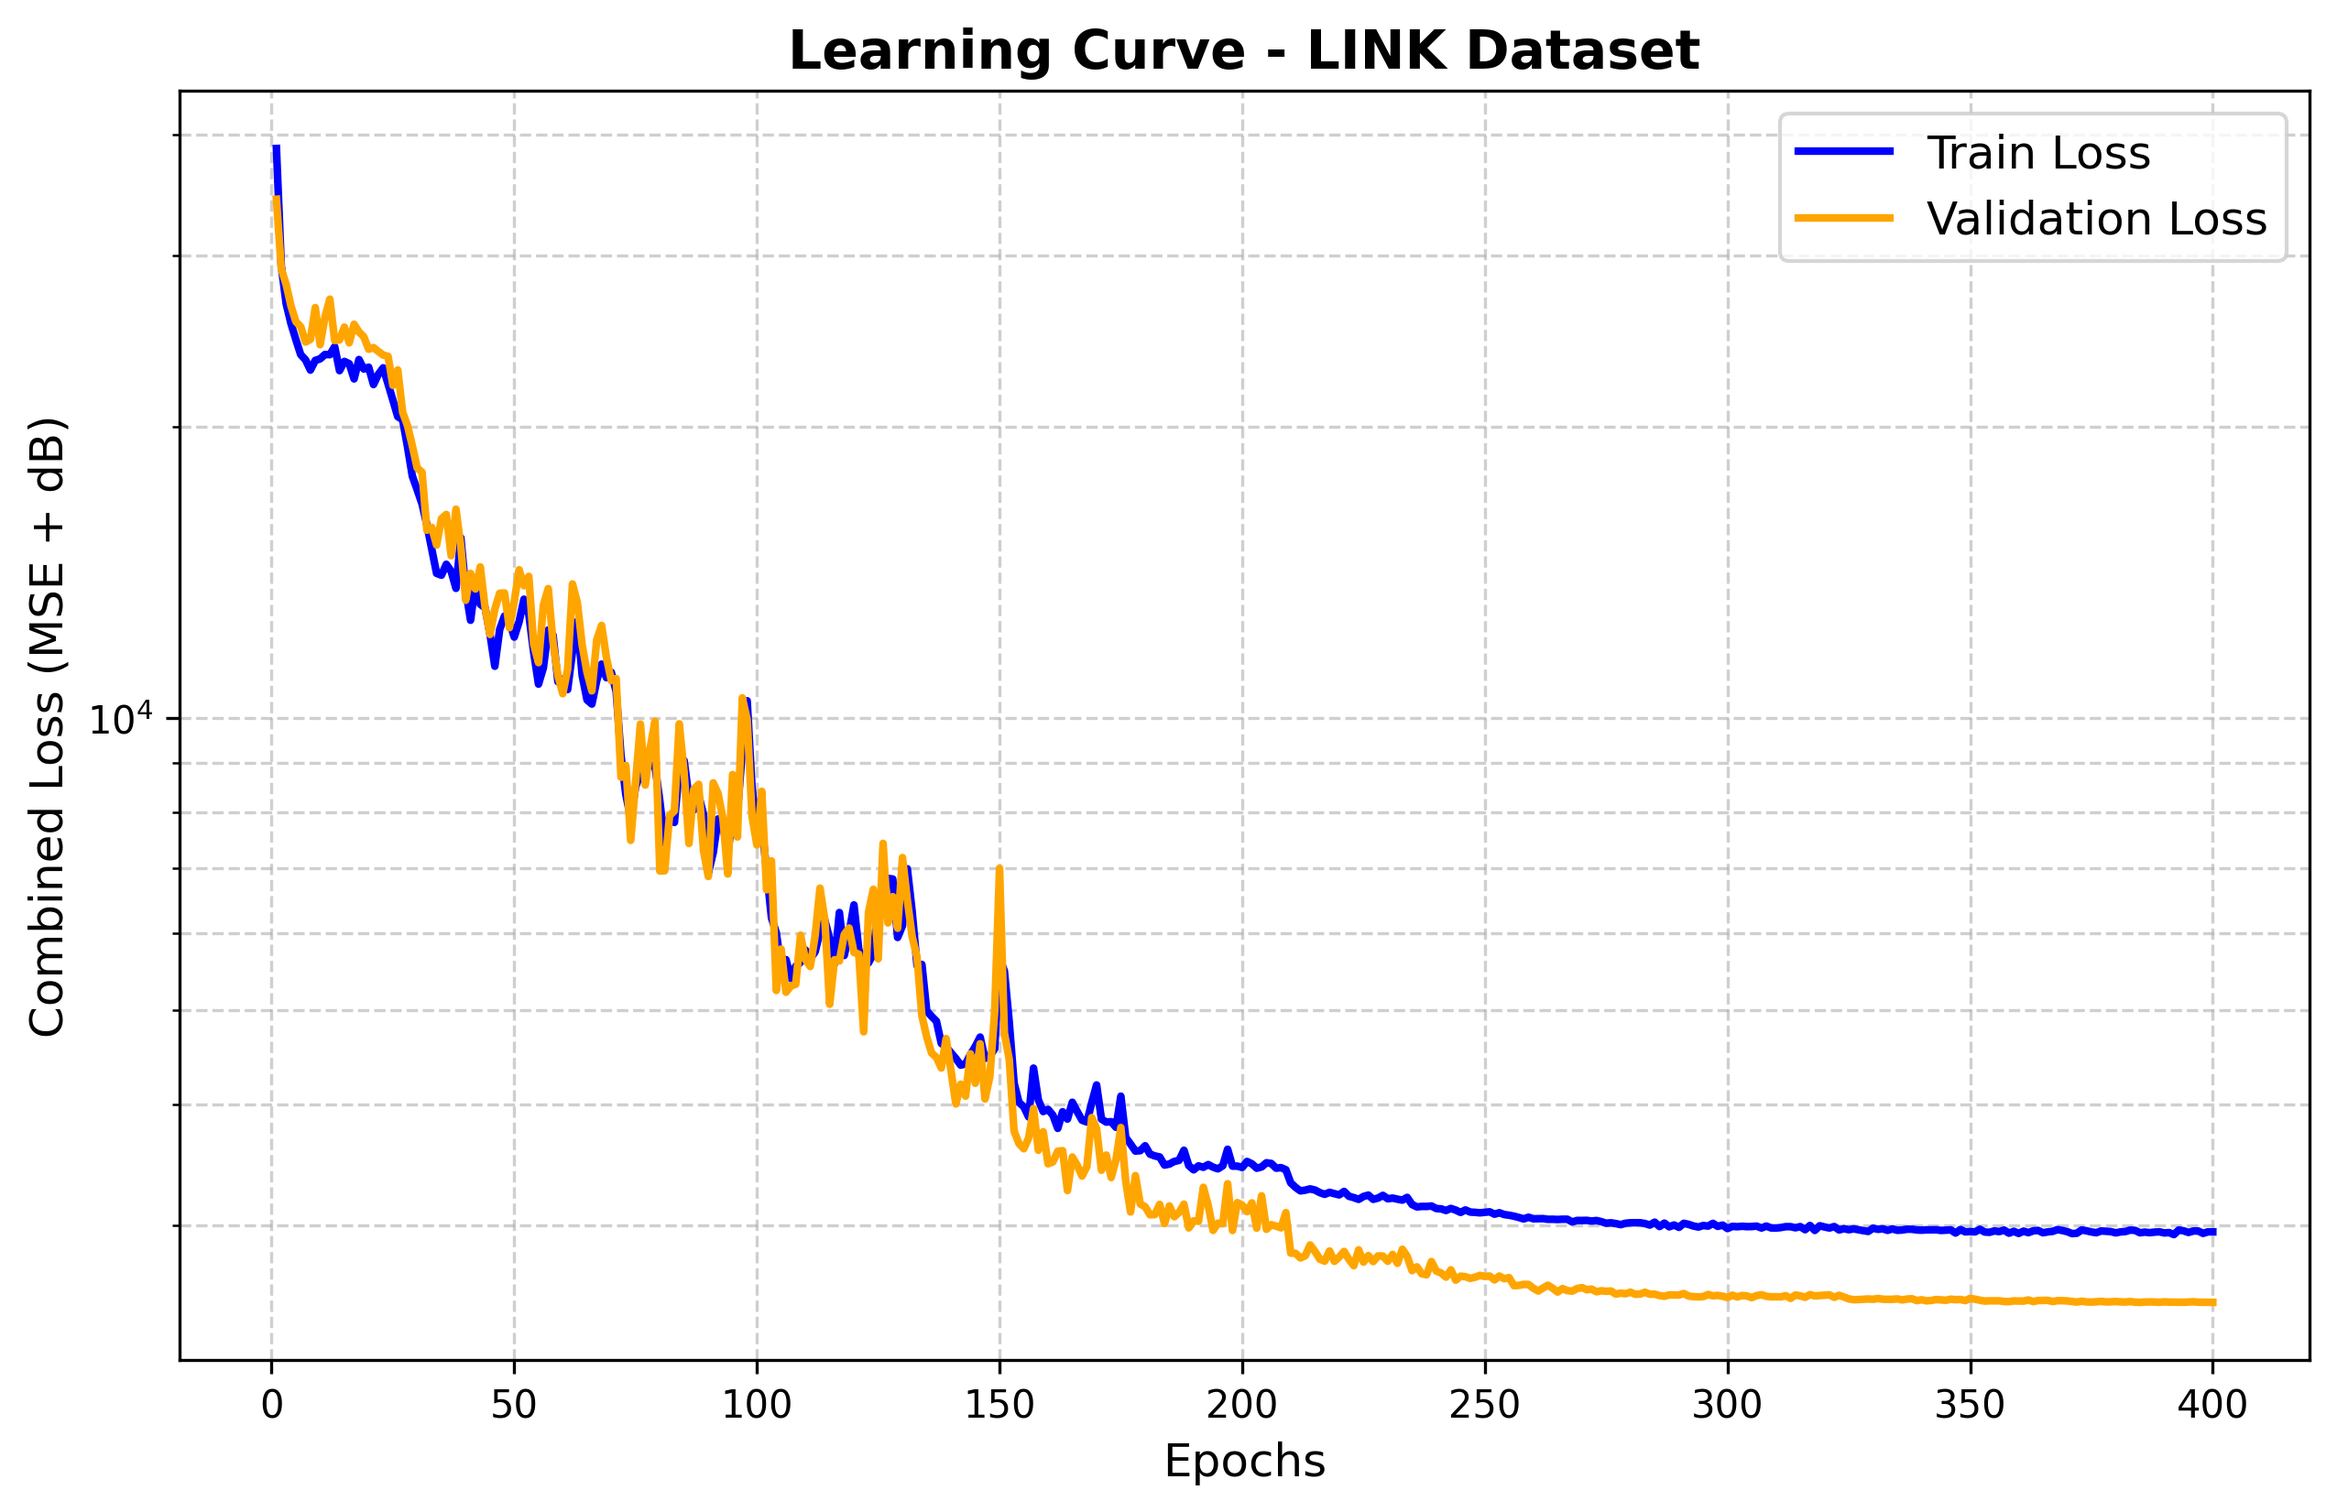
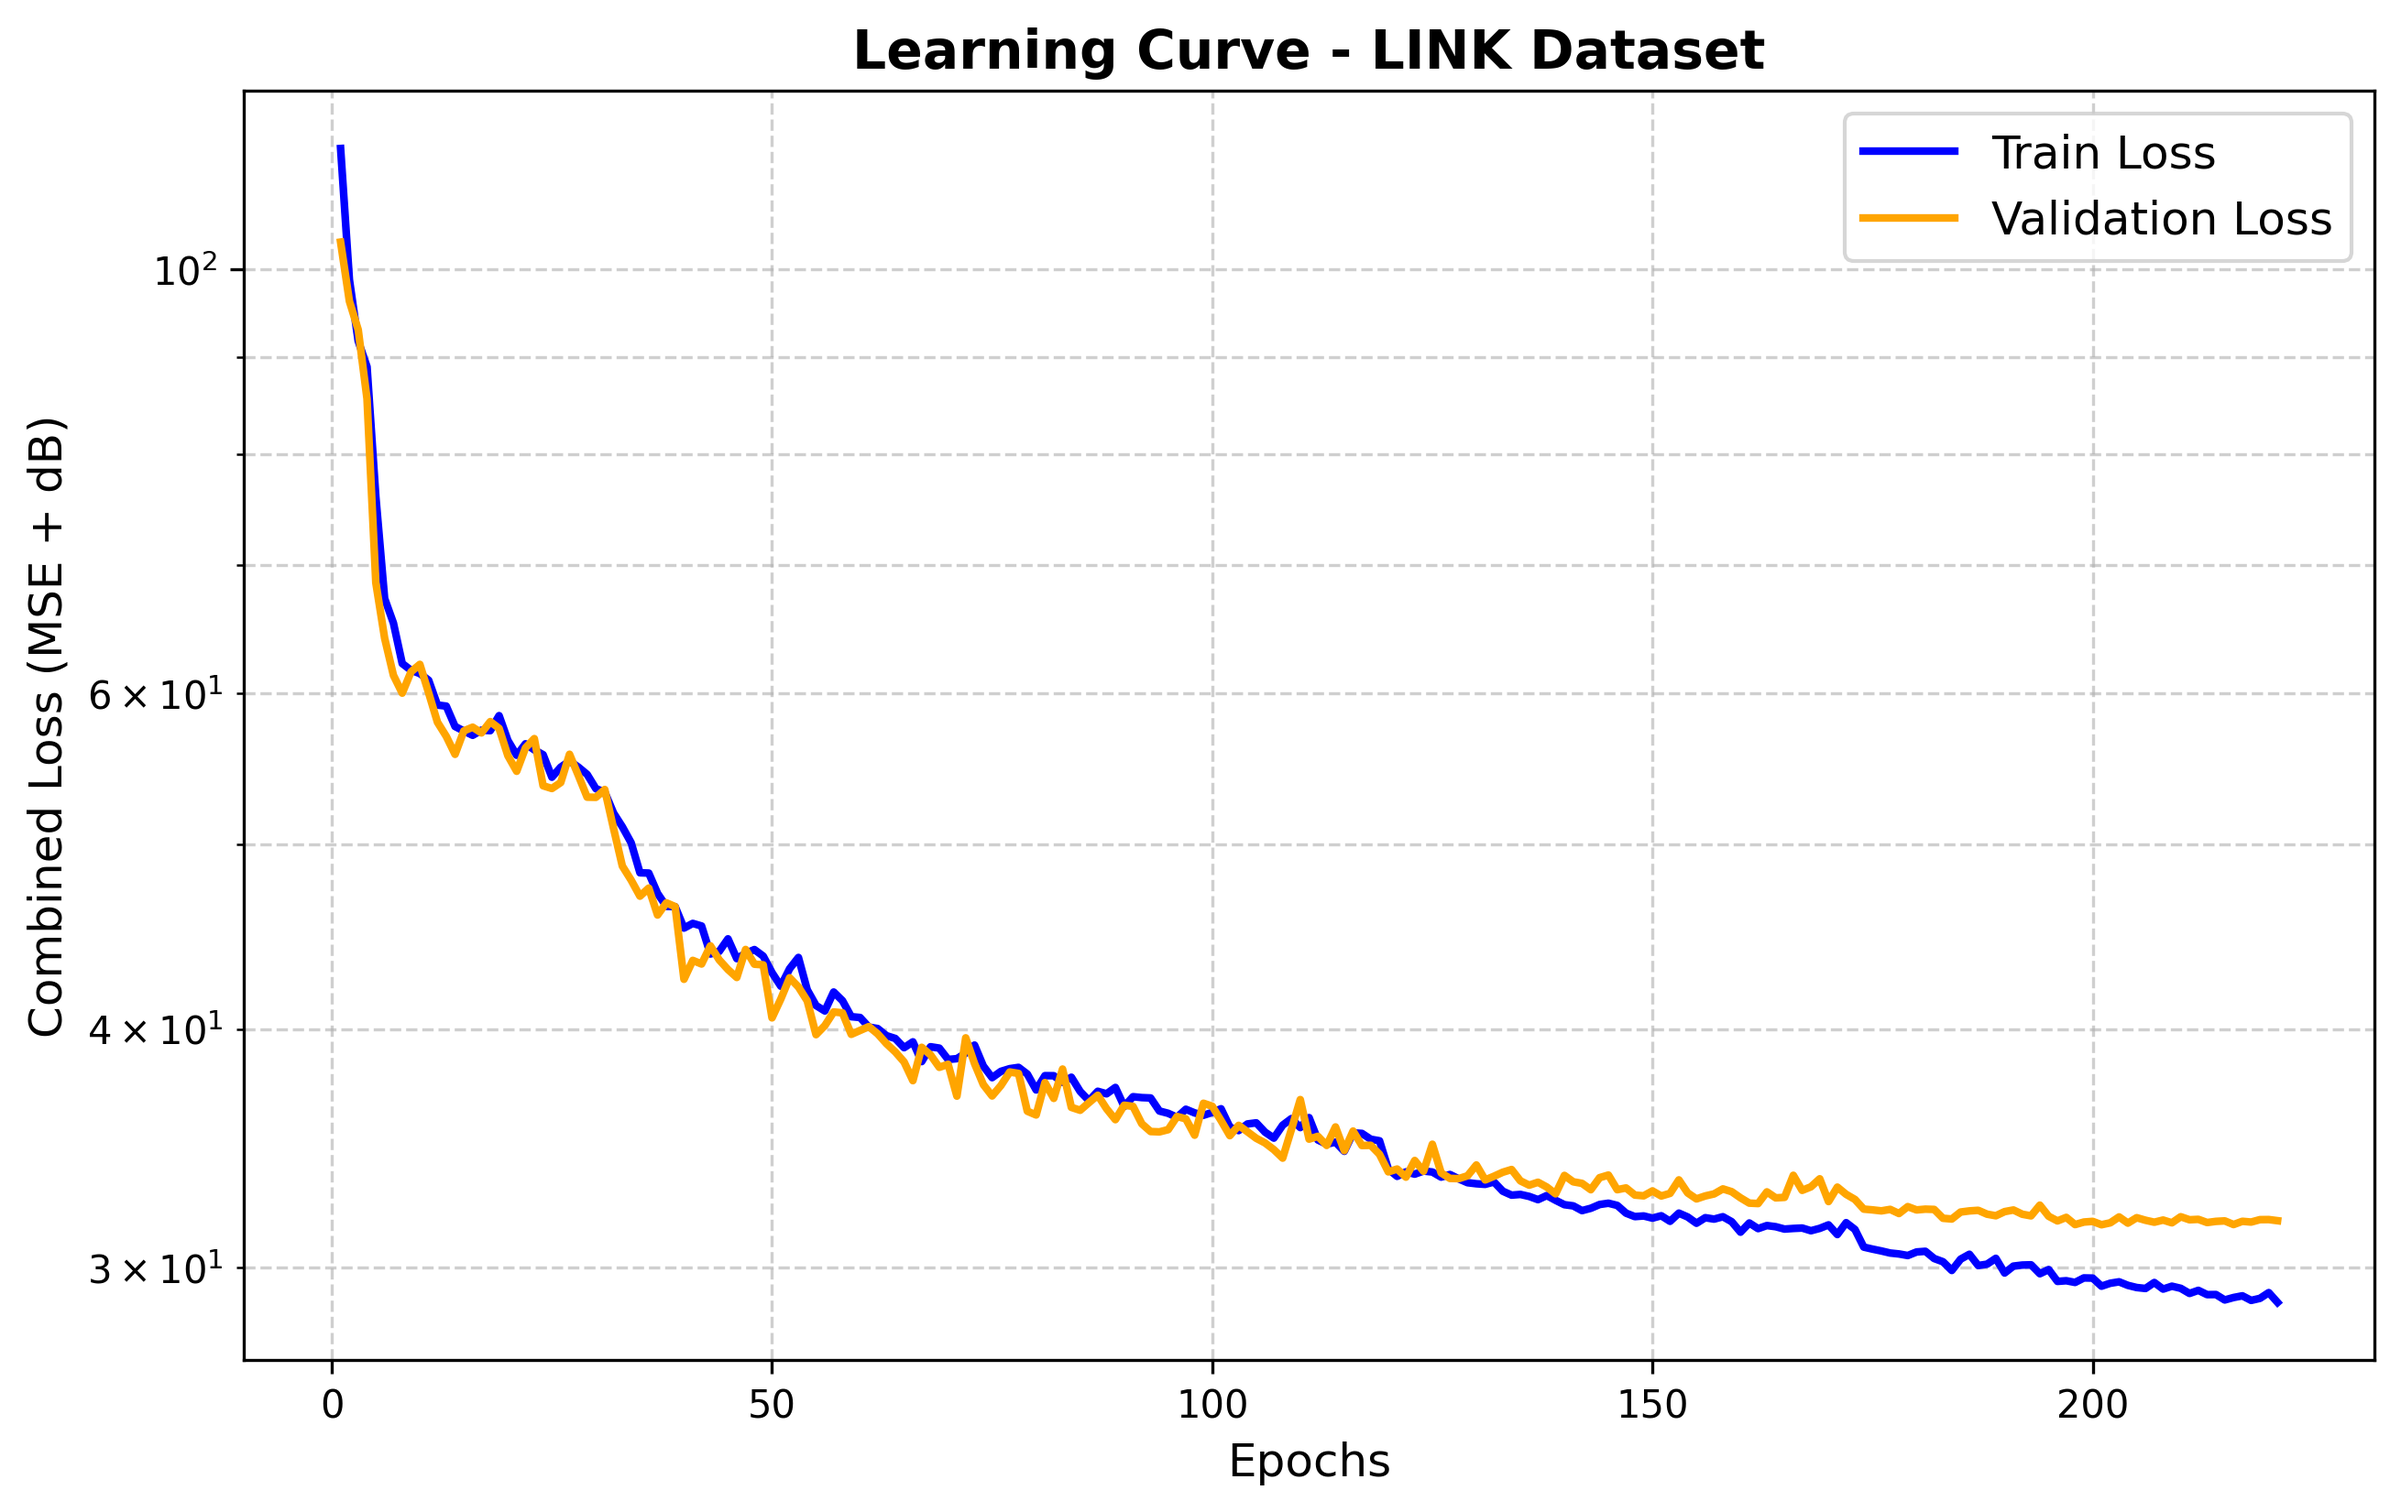
feat: changes to the baseline arch. - removed cholesky parameterization and added solfpenalty for passivity. increased dropout in rationalnet.py

diff --git a/src/training/train_rationalnet.py b/src/training/train_rationalnet.py
@@ -15,7 +15,7 @@ from src.models.rational_net import RationalNet
 # ---------------------------------------------------------------------------
 # Configuration Constants
 # ---------------------------------------------------------------------------
-NUM_POLES = 128
+NUM_POLES = 40
 BATCH_SIZE = 32
 EPOCHS = 400
 PATIENCE = 20
@@ -23,11 +23,11 @@ PATIENCE = 20
 # Optimizer Hyperparameters
 LR_BASE = 1e-3
 LR_POLES = 1e-4  
-WEIGHT_DECAY = 1e-4
+WEIGHT_DECAY = 1e-3
 
 # Loss Function Hyperparameters
-LOSS_ALPHA = 0.1   # Weight on the complex MSE loss
-LOSS_BETA  = 5.0  # Weight on the dB magnitude loss
+LOSS_ALPHA = 1.0   # Weight on the complex MSE loss
+LOSS_BETA  = 0.5  # Weight on the dB magnitude loss
 
 # ---------------------------------------------------------------------------
 # Loss Functions
@@ -55,6 +55,18 @@ def db_magnitude_loss(S_pred, Y_true):
     
     return torch.mean((db_pred - db_true)**2)
 
+def passivity_penalty(residues):    
+    """Soft penalty for non-passive residues (stops massive energy blowouts)."""    
+    R_real = residues.real  
+    # Enforce symmetry so eigvalsh doesn't crash during autograd
+    R_sym = (R_real + R_real.transpose(-1, -2)) / 2.0
+    #add a small jitter to the diagonal for numerical stability, preventing zero eigenvalues that can cause NaNs in gradients
+    eye = torch.eye(4, device=R_real.device).view(1, 1, 4, 4) * 1e-6
+    R_reg = R_sym + eye
+    eigvals = torch.linalg.eigvalsh(R_reg.view(-1, 4, 4))     
+    negative_eigvals = torch.clamp(eigvals, max=0.0)    
+    return torch.mean(negative_eigvals ** 2)
+
 def combined_loss(S_pred, Y_true, poles, residues, alpha=LOSS_ALPHA, beta=LOSS_BETA):
     """
     Combines Complex MSE with dB Magnitude loss.
@@ -64,22 +76,38 @@ def combined_loss(S_pred, Y_true, poles, residues, alpha=LOSS_ALPHA, beta=LOSS_B
     epsilon = 1e-4
     db_pred = 20 * torch.log10(torch.abs(S_pred) + epsilon)
     db_true = 20 * torch.log10(torch.abs(Y_true) + epsilon)
-    db_mse = (db_pred - db_true)**2 #element-wise MSE in dB
+    #The -40dB Noise Floor Clamp
+    db_true = torch.clamp(db_true, min=-70.0)
+    db_pred = torch.clamp(db_pred, min=-70.0)
+    #db_mse = (db_pred - db_true)**2 #element-wise MSE in dB
+    #L1 Loss (MAE) gives the network a strong gradient
+    db_mae = torch.abs(db_pred - db_true)
     #We multiply the error of the diagonal elements (S11, S22) by 5.0
     #To force the optimizer to care about reflections as much as transmission.
-    db_mse[:, :, 0, 0] *= 15.0  # S11
-    db_mse[:, :, 1, 1] *= 15.0  # S22
+    #db_mae[:, :, 0, 0] *= 15.0  # S11
+    #db_mae[:, :, 1, 1] *= 15.0  # S22
     #Frequency weighting: more weight on higher frequencies where deep resonances occur
     num_freqs = S_pred.shape[1]
     freq_weights = torch.linspace(1.0, 10.0, num_freqs).to(S_pred.device) # Linearly increasing weight from 1 to 10 across the frequency spectrum
     #shape frequency weights for broadcasting
-    weighted_db_loss = torch.mean(db_mse * freq_weights.view(1, -1, 1, 1))
+    weighted_db_loss = db_mae * freq_weights.view(1, -1, 1, 1)
+    #port mulltipliers
+    port_mae = torch.mean(weighted_db_loss, dim=(0, 1)) #shape (4, 4)
+    multiplier = torch.ones(4, 4).to(S_pred.device)
+    multiplier[0, 0] = 15.0  # S11
+    multiplier[1, 1] = 15.0  # S22
+    multiplier[2, 2] = 15.0  # S33
+    multiplier[3, 3] = 15.0  # S44
+    #final dB loss after port weighting
+    final_db_loss = torch.mean(port_mae * multiplier)
+    #soft penalty for passivity violations
+    p_loss = passivity_penalty(residues)
     #Damping penalty for poles to stay away from the imaginary axis, encouraging causality and numerical stability.
-    damping_penalty = torch.mean(1.0 / (torch.abs(poles.real) + 1e-5))
+    #damping_penalty = torch.mean(1.0 / (torch.abs(poles.real) + 1e-5))
     #residue penalty to encourage passivity by penalizing large positive real parts in residues
-    residue_l2 = torch.mean(torch.abs(residues)**2)
+    #residue_l2 = torch.mean(torch.abs(residues)**2)
     #returened combined loss with appropriate weighting
-    return (alpha * mse) + (beta * weighted_db_loss) + (1e-4 * damping_penalty) + (0.0 * residue_l2)
+    return (alpha * mse) + (beta * final_db_loss) + (1.0 * p_loss)
 
 # ---------------------------------------------------------------------------
 # Main Training Pipeline
@@ -126,16 +154,20 @@ def train_model(dataset_type='link'):
 
     # Isolate weight decay to prevent fighting the softplus causality constraint on poles
     pole_params = []
+    residue_params = []
     base_params = []
     for name, param in model.named_parameters():
         if 'poles' in name:
             pole_params.append(param)
+        elif 'residues' in name or 'd_term' in name:
+            residue_params.append(param)
         else:
             base_params.append(param)
 
     optimizer = optim.AdamW([
         {'params': base_params, 'lr': LR_BASE, 'weight_decay': WEIGHT_DECAY},
-        {'params': pole_params, 'lr': LR_POLES, 'weight_decay': 0.0}
+        {'params': pole_params, 'lr': LR_POLES, 'weight_decay': 0.0},
+        {'params': residue_params, 'lr': LR_BASE, 'weight_decay': 0.0}
     ], lr=LR_BASE)
 
     scheduler = optim.lr_scheduler.ReduceLROnPlateau(optimizer, mode='min', factor=0.5, patience=10)

diff --git a/src/models/rational_net.py b/src/models/rational_net.py
@@ -37,10 +37,10 @@ class RationalNet(nn.Module):
         self.input_layer = nn.Linear(total_features, 512)
         self.residual_block = nn.Sequential(
             nn.SiLU(),
-            nn.Dropout(0.05),
+            nn.Dropout(0.15),
             nn.Linear(512, 512),
             nn.SiLU(),
-            nn.Dropout(0.05),
+            nn.Dropout(0.15),
             nn.Linear(512, 512)
         )
 
@@ -69,14 +69,16 @@ class RationalNet(nn.Module):
         #manually initialise the resisues bias 
         #spread the initial pole across the frequency spectrum to encourage stable training from the start
         with torch.no_grad():
-            initial_imag = torch.linspace(0, 100 * 2 * torch.pi, self.num_poles_half) # multiply by 2*pi to convert from GHz to rad/s for better numerical stability in the rational function evaluation.
+            initial_imag = torch.linspace(0.25 * 2 * torch.pi, 100 * 2 * torch.pi, self.num_poles_half) # multiply by 2*pi to convert from GHz to rad/s for better numerical stability in the rational function evaluation.
             self.poles_imag.bias.copy_(initial_imag)
+            #Start the poles sharp
+            nn.init.constant_(self.poles_real.bias, -3.0)
             #real residues bias initialised to small positive values to encourage passivity early in training, while still allowing gradient flow
             nn.init.normal_(self.residues_real.weight, std=0.01)
-            nn.init.constant_(self.residues_real.bias, 0.5) # Start with zero imaginary residues to bias towards physical realism early in training
+            nn.init.constant_(self.residues_real.bias, 0.0) # Start with zero imaginary residues to bias towards physical realism early in training
             #imaginary residues bias initialised to small values to allow non-zero phase responses while still encouraging physical realism early in training. This is a hyperparameter that can be tuned for faster convergence or better final performance. Setting it too high may lead to unstable training early on, while setting it too low may bias the model towards zero-phase solutions which are not physically accurate for many interconnect structures. A value of 0.5 was found to provide a good balance in preliminary experiments, but this can be adjusted based on the specific dataset and training dynamics observed.
             nn.init.normal_(self.residues_imag.weight, std=0.01) 
-            nn.init.constant_(self.residues_imag.bias, 0.1) # Start with zero imaginary residues to bias towards physical realism early in training
+            nn.init.constant_(self.residues_imag.bias, 0.0) # Start with zero imaginary residues to bias towards physical realism early in training
             nn.init.constant_(self.d_term_real.bias, 0.0)
 
 
@@ -211,16 +213,21 @@ class RationalNet(nn.Module):
         # We can check that the real part of residues is positive semi-definite by confirming all
         #minimal eigenvalues are non-negative. This is a necessary condition for passivity, though not sufficient on its own.
         #Cholesky parameterisation guarantees positive semi-definiteness, but numerical issues could arise during training, so this is a useful diagnostic.
+        #passivity check
         R_real = residues.real # shape: [batch_size, num_poles, num_ports, num_ports]
+        
+        #  Enforce mathematical symmetry 
+        R_sym = (R_real + R_real.transpose(-1, -2)) / 2.0
+        
         min_eigval = float('inf')
         is_passive = True
-        for b in range(R_real.shape[0]):
-            for pole_idx in range(R_real.shape[1]):
-                eigvals = torch.linalg.eigvalsh(R_real[b, pole_idx])
+        for b in range(R_sym.shape[0]):
+            for pole_idx in range(R_sym.shape[1]):
+                # ---> CHANGE R_real to R_sym here <---
+                eigvals = torch.linalg.eigvalsh(R_sym[b, pole_idx])
                 min_eigval = min(min_eigval, eigvals.min().item())
                 if eigvals.min().item() < -1e-6:
                     is_passive = False
-
         return {
             "causality_preserved": is_causal,
             "conjugate_symmetry_preserved": is_symmetric,

diff --git a/src/evaluation/plot_rationalnet_training_results.py b/src/evaluation/plot_rationalnet_training_results.py
@@ -59,7 +59,7 @@ def plot_s_parameters(dataset_type='link'):
     f_ghz = frequencies_hz.numpy() / 1e9 # For plotting x-axis
     
     # Load Model
-    model = RationalNet(num_poles=128, num_local_features=num_local, num_global_features=num_global, num_ports=4)
+    model = RationalNet(num_poles=40, num_local_features=num_local, num_global_features=num_global, num_ports=4)
     checkpoint_path = os.path.join(PROJ_ROOT, f"results/checkpoints/best_rational_net_{dataset_type}.pth")
     checkpoint = torch.load(checkpoint_path, map_location=device, weights_only=False)
     model.load_state_dict(checkpoint['model_state'])
